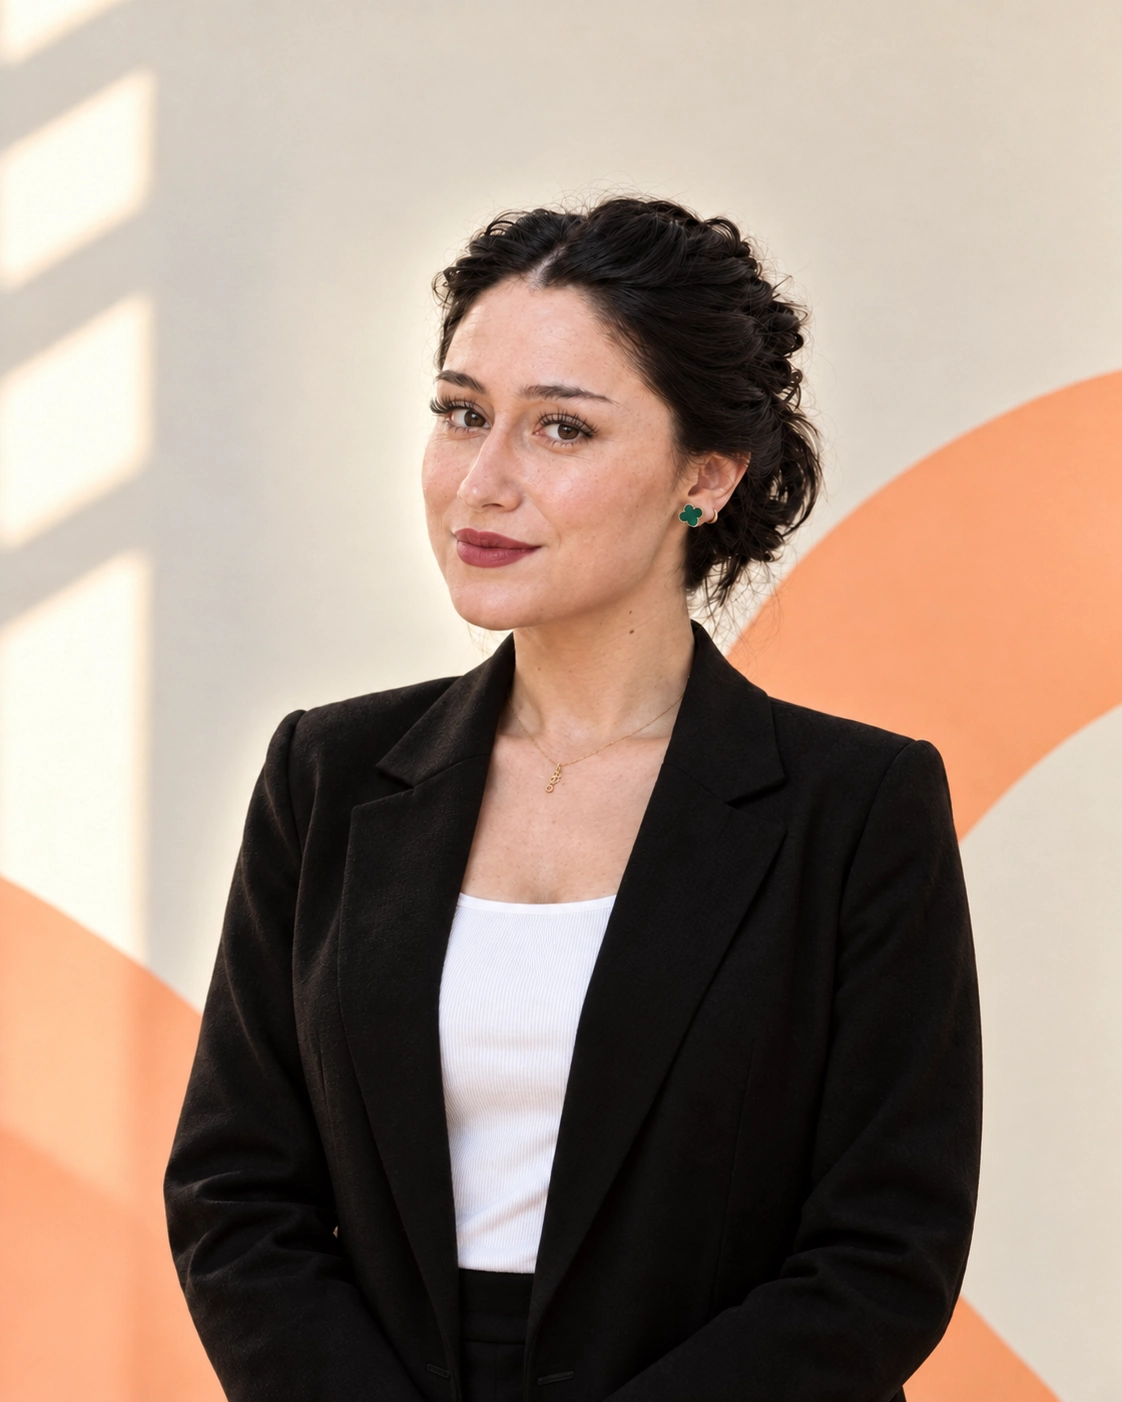
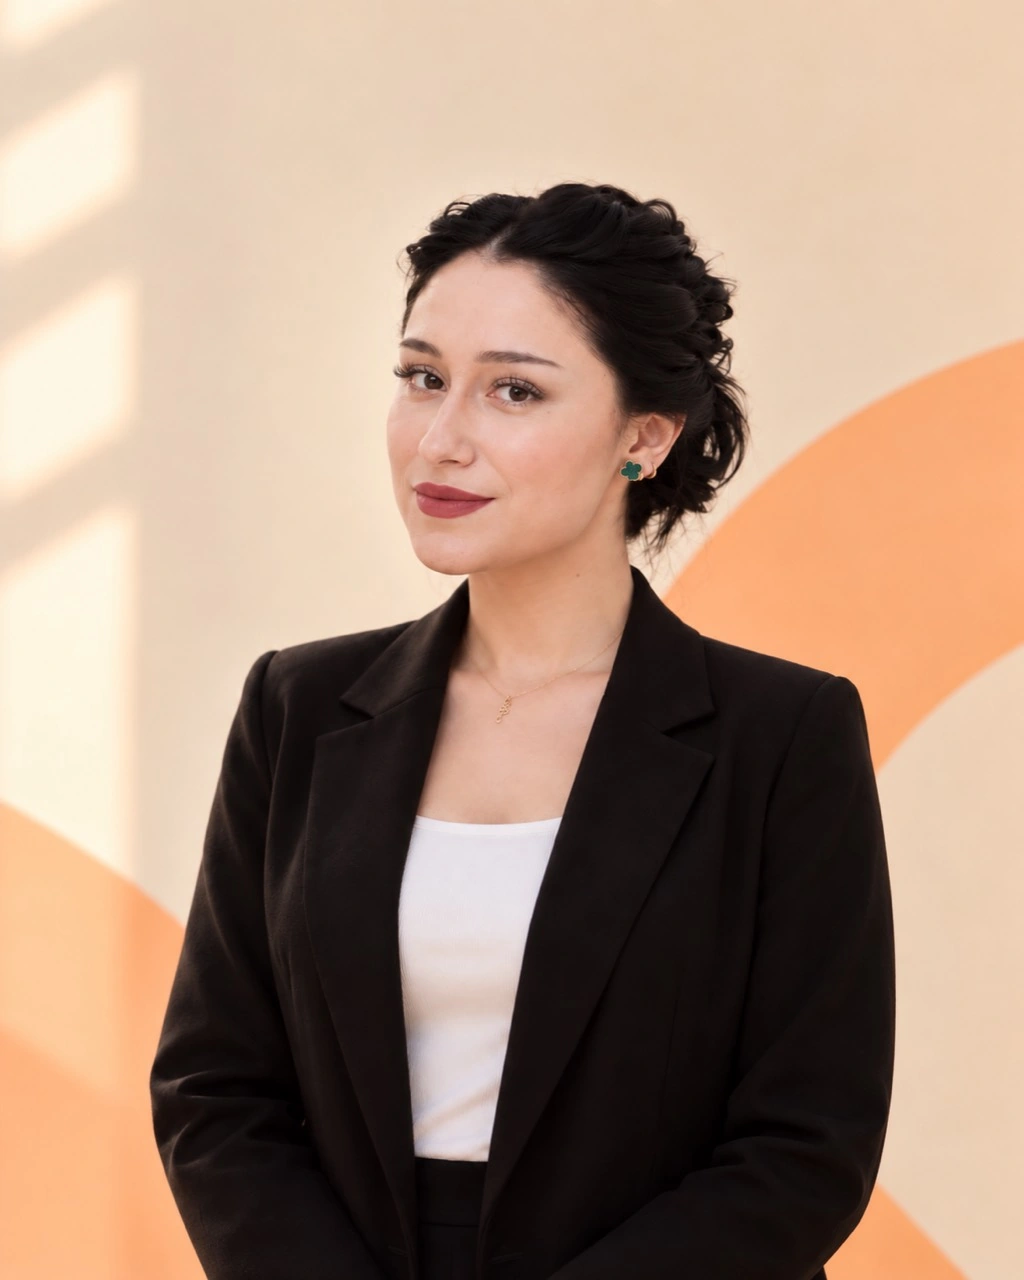
Restore original tutor photos without recompression

diff --git a/src/entities/teacher/model/catalog.ts b/src/entities/teacher/model/catalog.ts
@@ -26,7 +26,7 @@ export const teachers: readonly Teacher[] = [
       'Подготовка к ОГЭ',
       'Подготовка к ЕГЭ',
     ],
-    photo: '/images/tutor-informatics.webp?v=20260929e',
+    photo: '/images/tutor-informatics.png?v=20260929f',
     intro:
       'Имеет опыт работы с учениками как репетитор и куратор: регулярно проводит индивидуальные созвоны, помогает разобраться в сложных темах и выстроить понятный план учёбы. Основное направление — информатика, включая школьную программу, ОГЭ и ЕГЭ. Также помогает с математикой, домашними заданиями и другими школьными предметами.',
     achievements: [
@@ -94,7 +94,7 @@ export const teachers: readonly Teacher[] = [
       'Подготовка к ОГЭ',
       'Подготовка к ЕГЭ',
     ],
-    photo: '/images/tutor-anna.webp?v=20260929e',
+    photo: '/images/tutor-anna.webp?v=20260929f',
     intro:
       'Учитель общеобразовательной школы с высшим педагогическим образованием по профилям «Русский язык и литература». Проводит занятия для учеников 5–11 классов: помогает разобраться в школьной программе, укрепить знания по русскому языку и литературе, подготовиться к ОГЭ и ЕГЭ. Сама сдала ЕГЭ по русскому языку на 98 баллов.',
     achievements: [
@@ -125,7 +125,7 @@ export const teachers: readonly Teacher[] = [
       'Домашние задания',
       'Подготовка к ОГЭ',
     ],
-    photo: '/images/tutor-artem.webp?v=20260929e',
+    photo: '/images/tutor-artem.webp?v=20260929f',
     intro:
       'Уверенно знает русский язык и всю школьную программу. Помогает разобраться в правилах, восполнить пробелы и научиться применять теорию на практике — от домашних заданий и текущих тем до подготовки к ОГЭ. В занятиях делает акцент на понятной логике языка, внимательном разборе ошибок и спокойном темпе.',
     achievements: [
@@ -153,7 +153,7 @@ export const teachers: readonly Teacher[] = [
       'Домашние задания',
       'Подготовка к ОГЭ',
     ],
-    photo: '/images/tutor-alexandra-portrait-v2.webp?v=20260929e',
+    photo: '/images/tutor-alexandra-portrait-v2.jpg?v=20260929f',
     intro:
       'Более трёх лет помогает ученикам 5–11 классов разобраться в химии и биологии, повысить успеваемость и подготовиться к ОГЭ. Все её ученики сдали ОГЭ на «5». Объясняет сложные темы понятным языком и делает яркие конспекты, к которым удобно возвращаться при повторении.',
     achievements: [
@@ -184,7 +184,7 @@ export const teachers: readonly Teacher[] = [
       'Домашние задания',
       'Подготовка к ОГЭ',
     ],
-    photo: '/images/tutor-erlan.webp?v=20260929e',
+    photo: '/images/tutor-erlan.webp?v=20260929f',
     intro:
       'Умеет понятно объяснять сложные темы и находить подход к детям. Помогает устранить пробелы, разобраться с домашними заданиями и системно подготовиться к ОГЭ. В работе сочетает спокойное объяснение, последовательную практику и регулярное закрепление материала.',
     achievements: [
